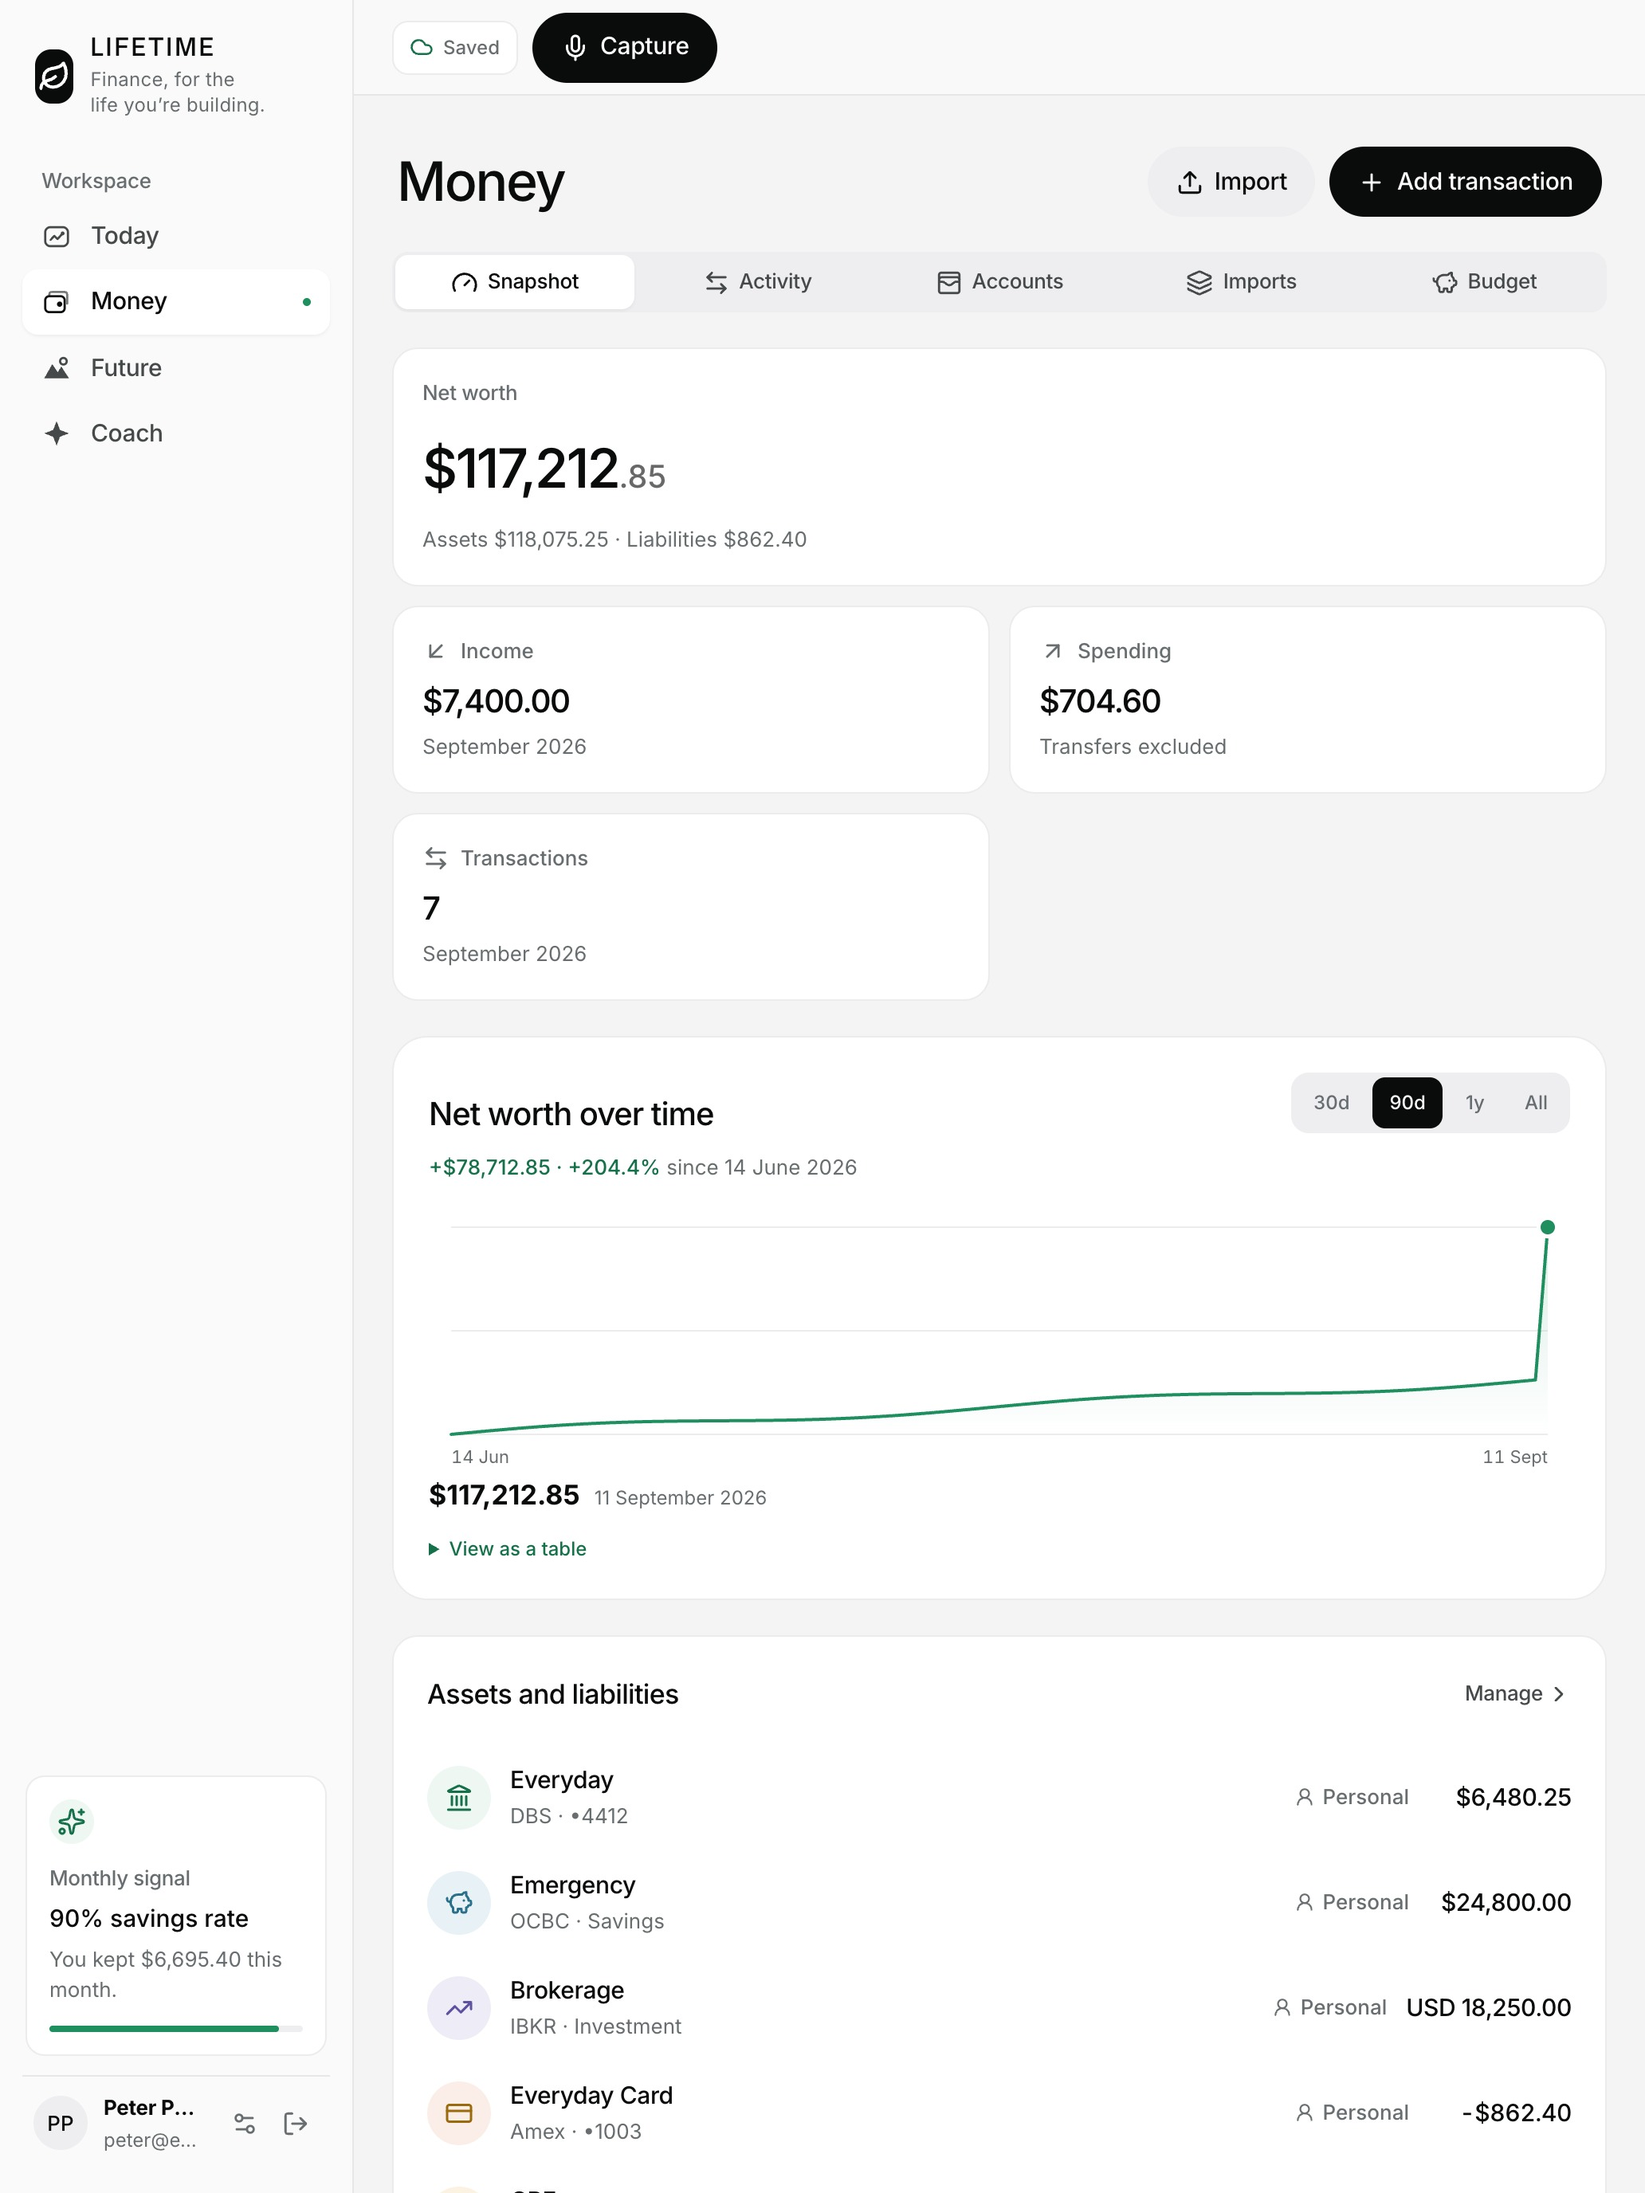
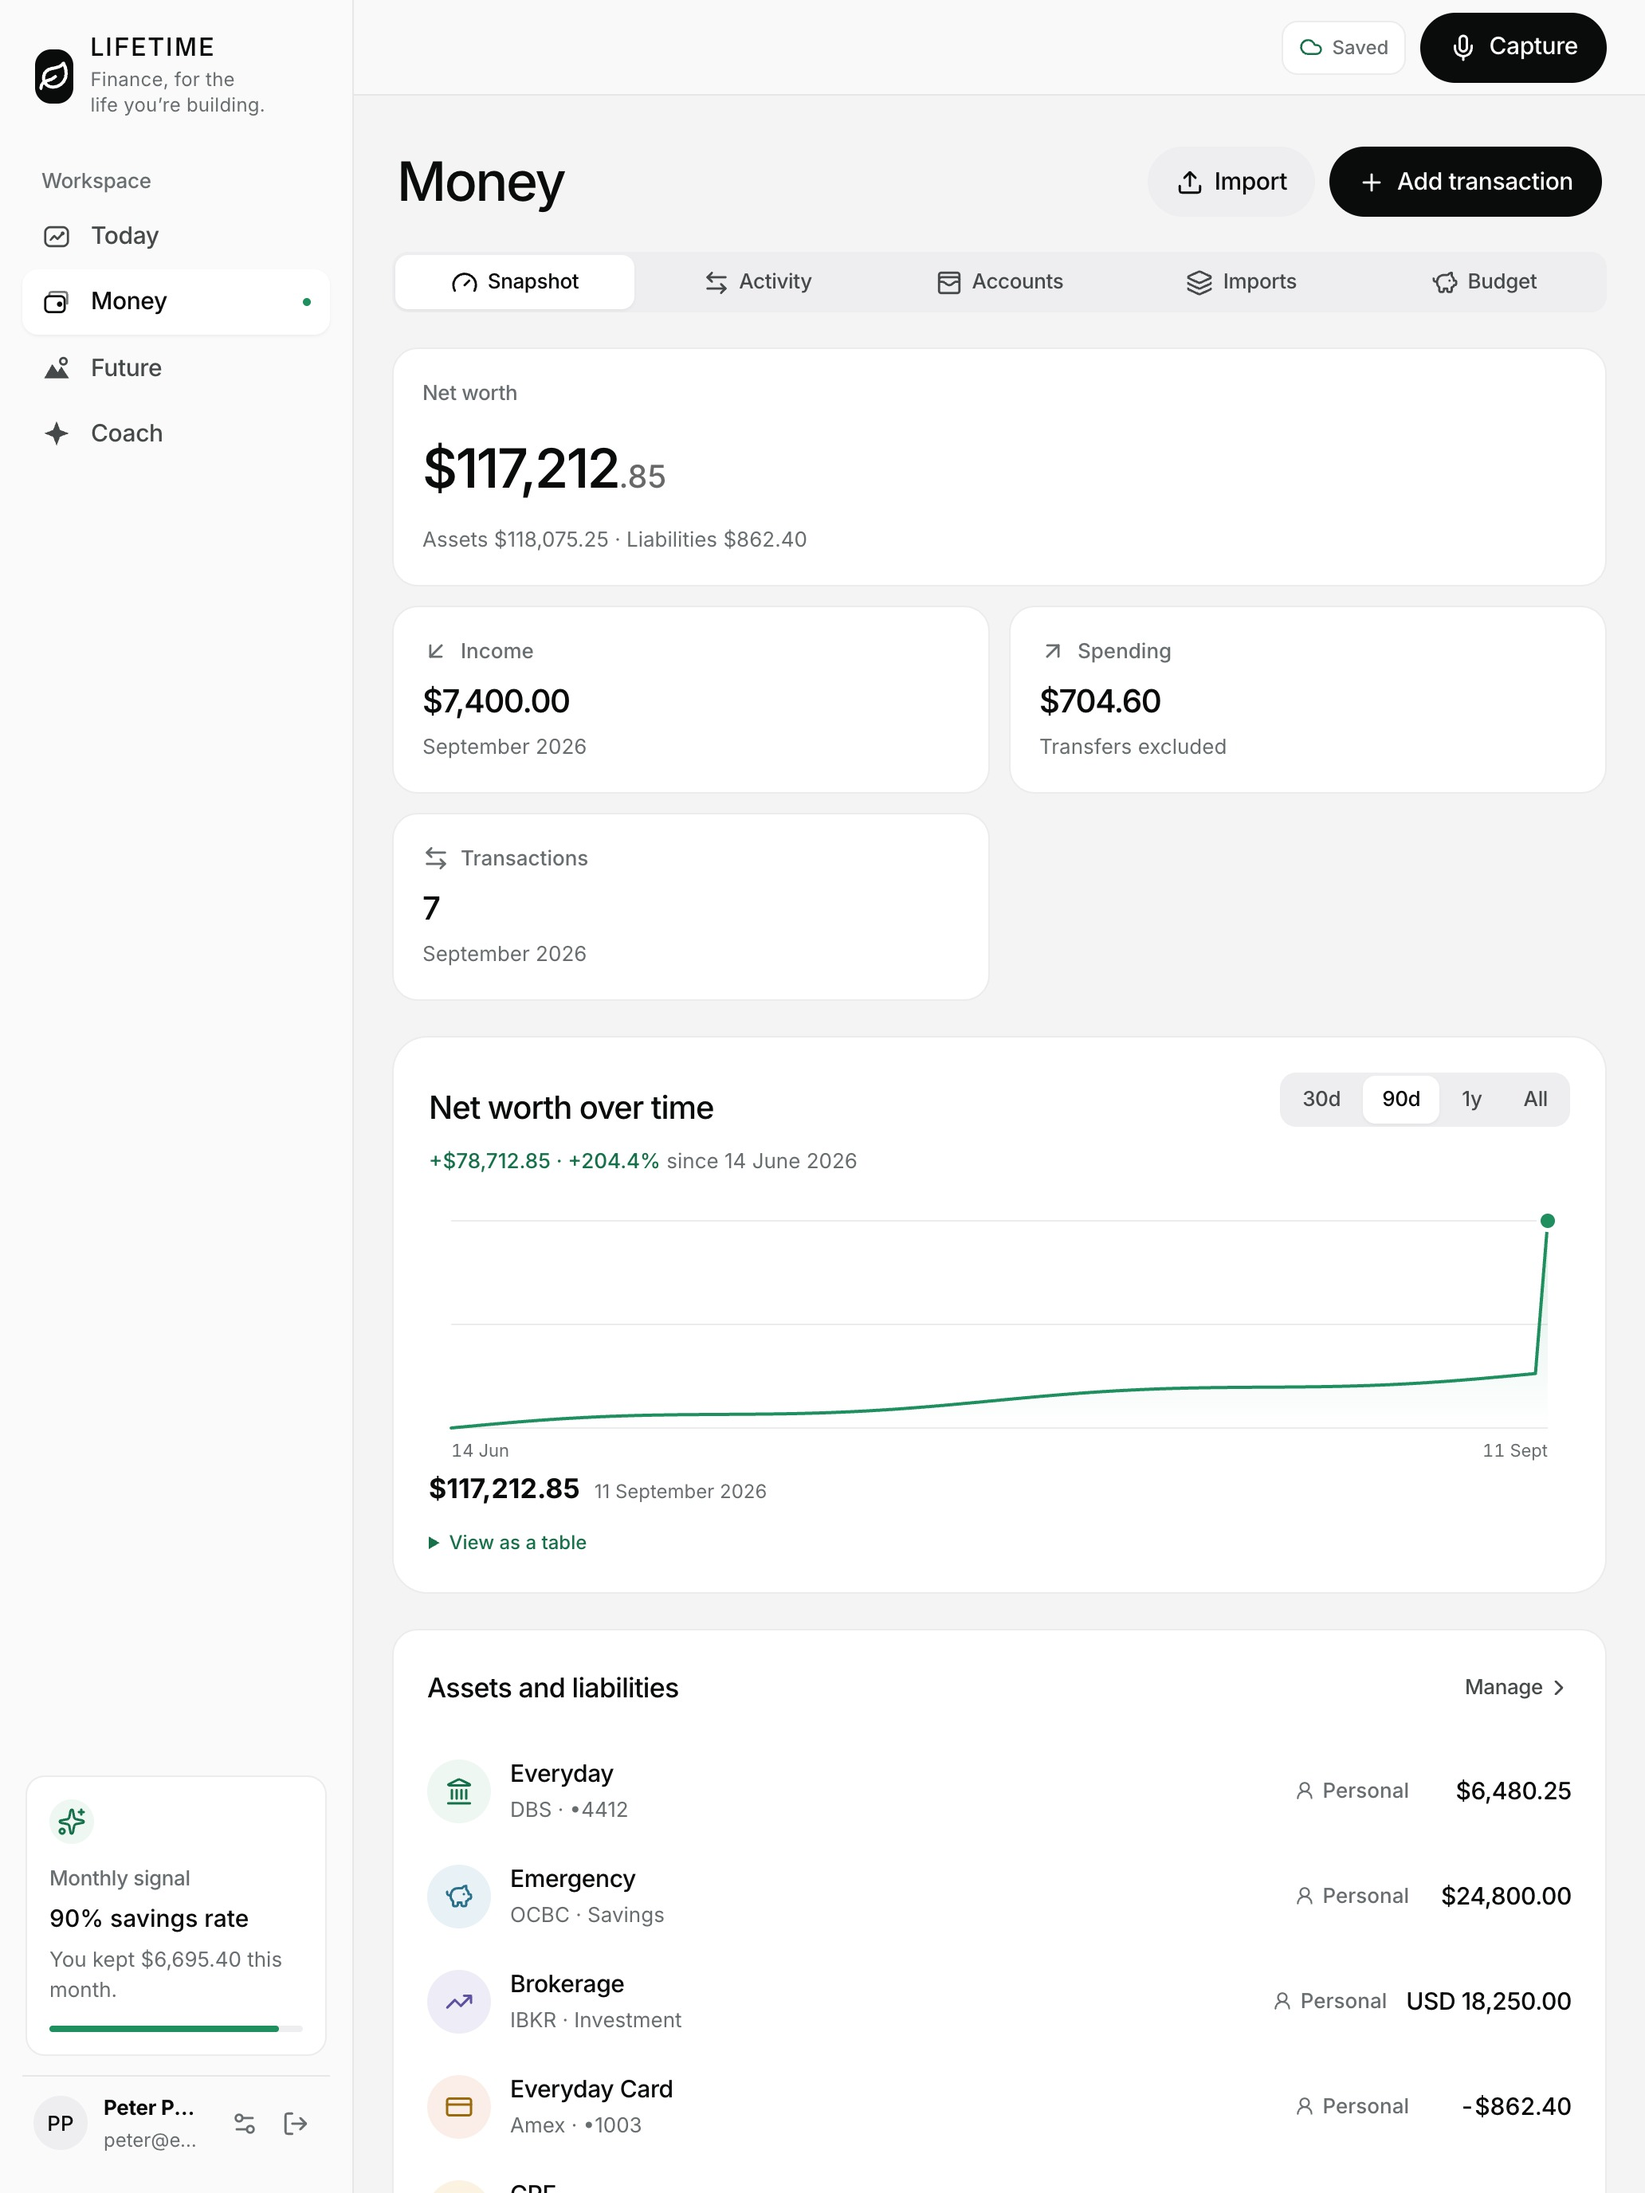
Retire the floating button; capture lives in the bar
Neither reference app has ever had a floating action button, and this one had
three problems beyond that: it duplicated the Capture circle already sitting
in the action row, it covered a transaction amount on every list, and it was
the only element left that floated over content.

Capture moves into the sticky top bar as an icon button, which is always
visible, never covers anything, and is where an always-available action lives
on both platforms. That was the reason the button survived an earlier attempt
to remove it — there was no other affordance once you had scrolled — and the
bar answers it. Content padding drops from 140px to 96px now that only the tab
bar sits under it.

Also fixes the chart range switch, the last segmented control still painting
its selection as a filled black pill, which made choosing 90d look like the
page's primary action.

Store screenshots regenerated and iOS synced (all five plugins registered).

diff --git a/src/app/globals.css b/src/app/globals.css
@@ -596,7 +596,7 @@ button:focus-visible, input:focus-visible, select:focus-visible, textarea:focus-
 
 .wizard-currency { display: grid; grid-template-columns: repeat(4,minmax(0,1fr)); gap: 7px; }
 .wizard-currency button { min-height: 46px; border: 1px solid var(--line); border-radius: 13px; color: var(--ink); background: var(--paper); font-size: var(--text-sm); font-weight: var(--weight-medium); cursor: pointer; }
-.wizard-currency .active { color: var(--accent-on); background: var(--accent-surface); border-color: var(--forest); }
+.wizard-currency .active { color: var(--accent-on); background: var(--accent-surface); border-color: var(--accent-surface); }
 
 .wizard-kinds { display: grid; grid-template-columns: repeat(auto-fit,minmax(150px,1fr)); gap: 8px; }
 .wizard-kinds button { display: flex; flex-direction: column; align-items: flex-start; gap: 3px; padding: 13px; border: 1px solid var(--line); border-radius: 15px; color: inherit; background: var(--paper); text-align: left; cursor: pointer; }
@@ -653,9 +653,11 @@ button:focus-visible, input:focus-visible, select:focus-visible, textarea:focus-
 .networth-panel { display: flex; flex-direction: column; gap: 12px; padding: 22px; border: 1px solid var(--line); border-radius: 22px; background: var(--paper); box-shadow: var(--elev-1); }
 .networth-heading { display: flex; align-items: flex-end; justify-content: space-between; gap: 16px; margin: 0; }
 .networth-heading h2 { font-size: var(--text-xl); }
-.range-switch { display: flex; gap: 3px; padding: 3px; border-radius: 11px; background: var(--paper-sunken); }
-.range-switch button { min-height: 32px; padding: 0 11px; border: 0; border-radius: 8px; color: var(--muted); background: transparent; font-size: var(--text-xs); font-weight: var(--weight-strong); cursor: pointer; }
-.range-switch .active { color: var(--accent-on); background: var(--accent-surface); }
+/* The last segmented control still painting its selection as a filled black
+   pill, which made a chart range look like the page's primary action. */
+.range-switch { display: flex; gap: 2px; padding: 2px; border-radius: var(--r-sm); background: var(--paper-sunken); }
+.range-switch button { min-height: 30px; padding: 0 12px; border: 0; border-radius: 8px; color: var(--ink-soft); background: transparent; font-size: var(--text-sm); font-weight: var(--weight-medium); letter-spacing: var(--track-tight); cursor: pointer; transition: color var(--motion-control) var(--motion-ease-out), background var(--motion-control) var(--motion-ease-out); }
+.range-switch .active { color: var(--ink); background: var(--paper); box-shadow: var(--elev-2); }
 .networth-change { margin: 0; color: var(--forest); font-size: var(--text-sm); font-weight: var(--weight-medium); }
 .networth-change.is-down { color: var(--amber); }
 .networth-change span { color: var(--muted); font-weight: var(--weight-regular); }
@@ -834,7 +836,7 @@ button:focus-visible, input:focus-visible, select:focus-visible, textarea:focus-
 .import-copy { display: flex; align-items: flex-start; gap: 13px; margin-bottom: 15px; }.import-icon { width: 43px; height: 43px; flex: 0 0 auto; display: grid; place-items: center; border-radius: 13px; color: var(--green-600); background: var(--green-50); }.import-copy strong { display: block; font-size: var(--text-sm); }.import-copy p { margin: 5px 0 0; color: var(--muted); font-size: var(--text-2xs); line-height: 1.5; }.import-textarea { width: 100%; min-height: 185px; resize: vertical; margin-bottom: 14px; padding: 14px; border: 1px solid var(--line); border-radius: 13px; color: var(--forest); background: var(--paper); font-family: monospace; font-size: var(--text-2xs); line-height: 1.6; outline: 0; }
 .toast { position: fixed; z-index: 120; pointer-events: none; left: 50%; bottom: 28px; display: flex; align-items: center; gap: 8px; padding: 11px 16px; border: 0; border-radius: var(--r-pill); color: var(--accent-on); background: var(--accent-surface); box-shadow: var(--elev-3); font-size: var(--text-sm); transform: translateX(-50%); animation: toast-in var(--motion-modal) var(--motion-ease-out); }
 .toast svg { color: var(--green-400); }
-.mobile-nav, .mobile-fab { display: none; }
+.mobile-nav { display: none; }
 
 /* Product systems: Money, Future, Coach, Household and voice capture */
 .sync-pill { height: 34px; display: inline-flex; align-items: center; gap: 6px; padding: 0 10px; border: 1px solid var(--line); border-radius: 10px; color: var(--muted); background: var(--paper); font-size: var(--text-xs); font-weight: var(--weight-strong); }
@@ -995,7 +997,7 @@ button:disabled { cursor: not-allowed; opacity: .48; }
 @media (max-width: 640px) {
   button, [role="button"] { touch-action: manipulation; }
   .topbar { height: calc(66px + env(safe-area-inset-top)); padding: env(safe-area-inset-top) 16px 0; }
-  .top-actions .icon-button, .compact-button { display: none; }
+  .top-actions .icon-button:not(.capture-bar-button), .compact-button { display: none; }
   .top-actions .sync-pill { display: none; }
   .scope-switcher { margin-left: auto; margin-right: auto; }
   .scope-option { min-height: 42px; padding: 8px 12px; }
@@ -1056,7 +1058,6 @@ button:disabled { cursor: not-allowed; opacity: .48; }
   .mobile-nav button { min-width: 0; min-height: 50px; display: flex; flex-direction: column; align-items: center; justify-content: center; gap: 3px; padding: 2px; border: 0; border-radius: 0; color: var(--muted); background: transparent; font-size: var(--text-2xs); font-weight: var(--weight-medium); letter-spacing: 0; cursor: pointer; transition: color var(--motion-control) var(--motion-ease-out); }
   .mobile-nav button:active { transform: none; }
   .mobile-nav-active { color: var(--ink)!important; background: transparent!important; }
-  .mobile-fab { position: fixed; z-index: 45; right: 16px; bottom: calc(66px + env(safe-area-inset-bottom)); width: 52px; height: 52px; display: grid; place-items: center; border: 0; border-radius: 50%; color: var(--accent-on); background: var(--accent-surface); box-shadow: var(--elev-3); cursor: pointer; }
   .auth-page { min-height: 100svh; padding: 14px; }.auth-card { padding: 28px 22px; border-radius: var(--r-xl); }.auth-brand { margin-bottom: 28px; }.auth-card h1 { font-size: clamp(26px,7vw,34px); line-height: 1.1; }.auth-copy { font-size: var(--text-base); }.auth-promises span { font-size: var(--text-sm); }.google-button { min-height: 56px; }
   .first-run-guide { padding: 19px; border-radius: 21px; }.first-run-heading { align-items: flex-start; flex-direction: column; gap: 10px; }.first-run-heading h2 { font-size: var(--text-xl); }.first-run-steps > button { min-height: 158px; }.first-run-steps > button > p { font-size: var(--text-sm); }
   .toast { bottom: calc(66px + env(safe-area-inset-bottom)); width: calc(100% - 36px); justify-content: center; }
@@ -1354,3 +1355,14 @@ button:disabled { cursor: not-allowed; opacity: .48; }
   .section-tabs .section-tab > svg { display: none; }
 }
 .section-tab > svg { flex: 0 0 auto; }
+
+/* Capture lives in the sticky bar on a phone, not in a circle floating over the
+   ledger. The bar is always there, it never covers an amount, and neither of the
+   apps this is measured against has ever had a floating action button. */
+.capture-bar-button { display: none; }
+@media (max-width: 640px) {
+  .capture-bar-button { display: grid; }
+  /* The bar now holds the action, so the content only clears the tab bar. */
+  .content { padding-bottom: calc(96px + env(safe-area-inset-bottom)); }
+  .toast { bottom: calc(66px + env(safe-area-inset-bottom)); }
+}

diff --git a/src/components/LifetimeFinanceHub.tsx b/src/components/LifetimeFinanceHub.tsx
@@ -1128,6 +1128,9 @@ export default function LifetimeFinanceHub({ viewer, signOutPath, apiBaseUrl = "
               <span>{syncStatus === "saved" ? "Saved" : syncStatus === "saving" ? "Saving" : syncStatus === "offline" ? "On device" : "Loading"}</span>
             </span>
             <button className="primary-button compact-button capture-button" onClick={() => setModal("capture")}><Mic size={18} /> Capture</button>
+            {/* On a phone the bar is where the always-available action lives. It
+                replaces the floating button that used to sit over the ledger. */}
+            <button className="icon-button capture-bar-button" onClick={() => setModal("capture")} aria-label="Capture with voice or text"><Mic size={20} /></button>
           </div>
         </header>
 
@@ -1273,7 +1276,7 @@ export default function LifetimeFinanceHub({ viewer, signOutPath, apiBaseUrl = "
         })}
       </nav>
 
-      <button className="mobile-fab voice-fab" onClick={() => setModal("capture")} aria-label="Capture with voice or text"><Mic size={24} /></button>
+
 
       {modal === "capture" && <CaptureModal accounts={data.accounts} profile={data.profile} scope={scope} qwenConfigured={qwenConfigured} onClose={() => setModal(null)} onTransaction={(draft) => openCaptureDraft(draft)} onPlan={(event) => savePlannedEvent(event)} onAsk={(prompt) => { setModal(null); setActiveView("coach"); window.setTimeout(() => window.dispatchEvent(new CustomEvent("lifetime-coach-question", { detail: prompt })), 100); }} onProfile={(profile) => setData((current) => ({ ...current, profile }))} />}
       {modal === "transaction" && <TransactionModal initial={editingTransaction || captureDraft} accounts={data.accounts} scope={scope} fx={fx} categories={categories} onNeedAccount={() => openRequiredAccount("transaction")} onClose={() => { setModal(null); setEditingTransaction(null); setEditingInbox(null); setCaptureDraft(null); }} onSubmit={saveTransaction} onDelete={editingTransaction ? () => deleteTransaction(editingTransaction) : undefined} />}
